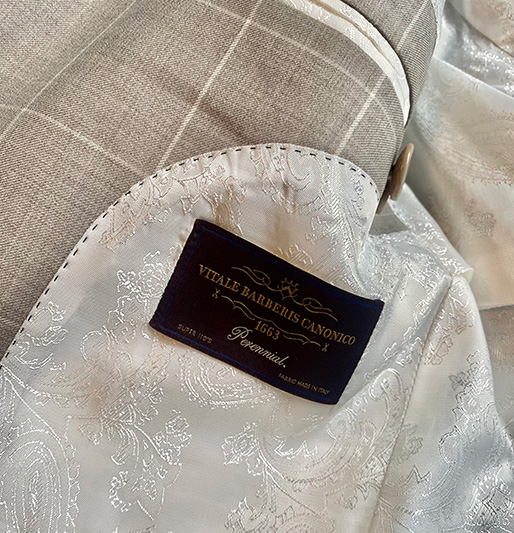
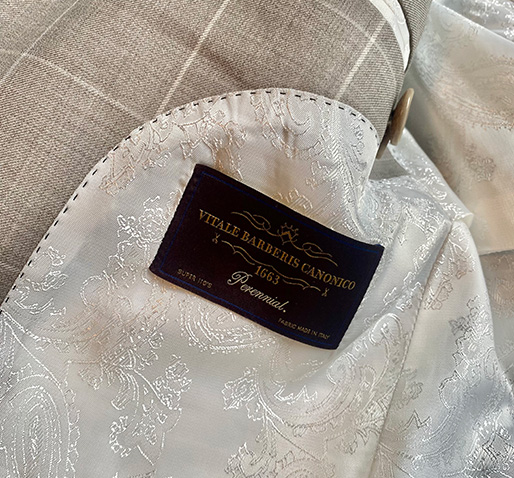
changed picture order in about page

diff --git a/about.html b/about.html
@@ -118,10 +118,10 @@
 			<img src="./img/FullSizeRender.jpg" class=" custom-img" alt="Image 1">
 		</div>
 		<div class="col-sm-4 py-0 mx-auto">
-			<img src="./img/Shoot-142.jpg" class=" custom-img" alt="Image 2">
+			<img src="./img/Shoot-153.jpg" class=" custom-img" alt="Image 2">
 		</div>
 		<div class="col-sm-4 py-0 mx-auto">
-			<img src="./img/Shoot-153.jpg" class=" custom-img" alt="Image 3">
+			<img src="./img/Shoot-142.jpg" class=" custom-img" alt="Image 3">
 		</div>
 	</div>
 </div>
